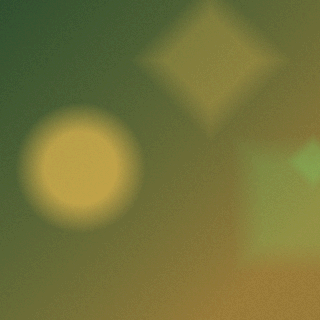
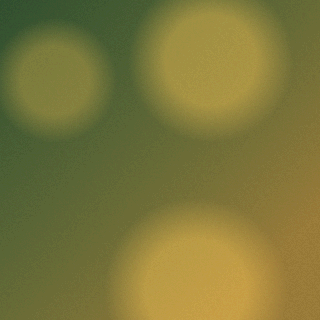
데모 아바타를 원형으로 읽히게 — 안에 든 각진 도형 제거
프로필 마스크는 원래부터 border-radius:50% 원형이었다(라이브에서 6개 전부 확인).
각져 보인 건 마스크가 아니라 내가 만든 아바타 이미지 안에 사각형·마름모가 크게
들어가 있었기 때문 — 동그란 마스크 안에서 육각형처럼 보였다.

아바타에만 soft 옵션을 줘서 원형 블롭만 쓰게 했다. 커버·사진은 각진 도형이 있어야
그래픽으로 보이므로 그대로 둔다.

diff --git a/scripts/gen-demo-media.js b/scripts/gen-demo-media.js
@@ -67,7 +67,10 @@ function artwork(w, h, opt) {
   for (let i = 0; i < (opt.shapes || 5); i++) {
     shapes.push({
       x: r() * w, y: r() * h, rad: (0.08 + r() * 0.22) * Math.min(w, h),
-      kind: Math.floor(r() * 3), col: r() < 0.5 ? c1 : c2, a: 0.18 + r() * 0.5,
+      /* soft=true 면 원만 쓴다 — 아바타는 동그란 마스크 안에 들어가는데 사각형·마름모가
+         들어가면 원이 아니라 육각형처럼 각져 보인다. 커버·사진은 각진 도형이 있어야 멋있다. */
+      kind: opt.soft ? 0 : Math.floor(r() * 3),
+      col: r() < 0.5 ? c1 : c2, a: 0.18 + r() * 0.5,
     });
   }
   const grain = rnd(opt.seed ^ 0x9e3779b9);
@@ -230,7 +233,8 @@ const w = (name, buf) => {
 
 console.log('데모 미디어 생성 →', OUT);
 for (const a of ARTISTS) {
-  w(a.slug + '-avatar.png', artwork(320, 320, { c1: a.c1, c2: a.c2, seed: a.seed, shapes: 4 }));
+  /* 아바타는 동그란 마스크 안에 들어가므로 각진 도형 없이(soft) — 원형으로 읽히게 */
+  w(a.slug + '-avatar.png', artwork(320, 320, { c1: a.c1, c2: a.c2, seed: a.seed, shapes: 3, soft: true }));
   w(a.slug + '-cover.png', artwork(560, 560, { c1: a.c1, c2: a.c2, seed: a.seed + 1, shapes: 6 }));
   w(a.slug + '-photo.png', artwork(800, 534, { c1: a.c2, c2: a.c1, seed: a.seed + 2, shapes: 7 }));
   w(a.slug + '-demo.wav', wav(a.track(16)));
